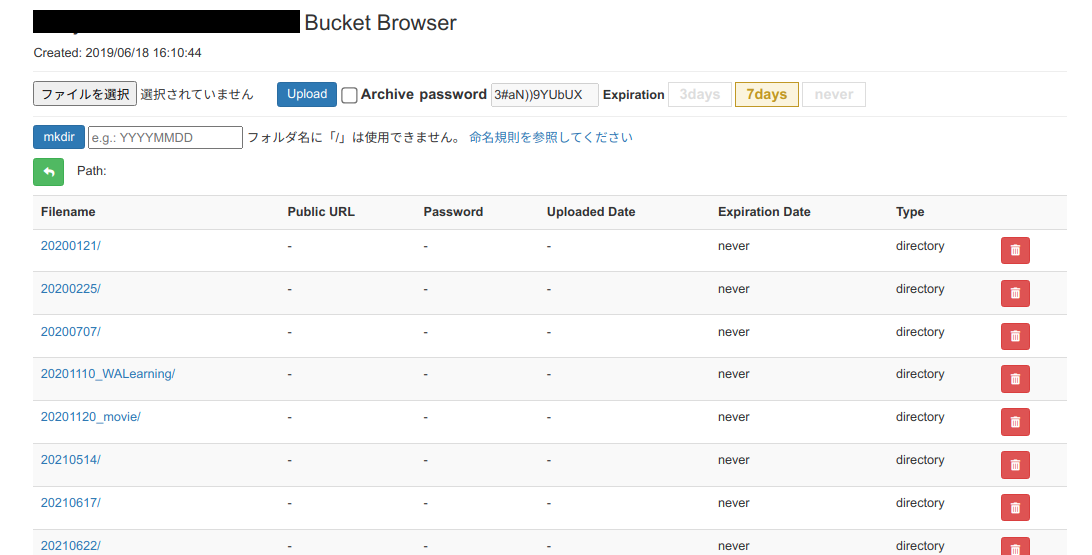
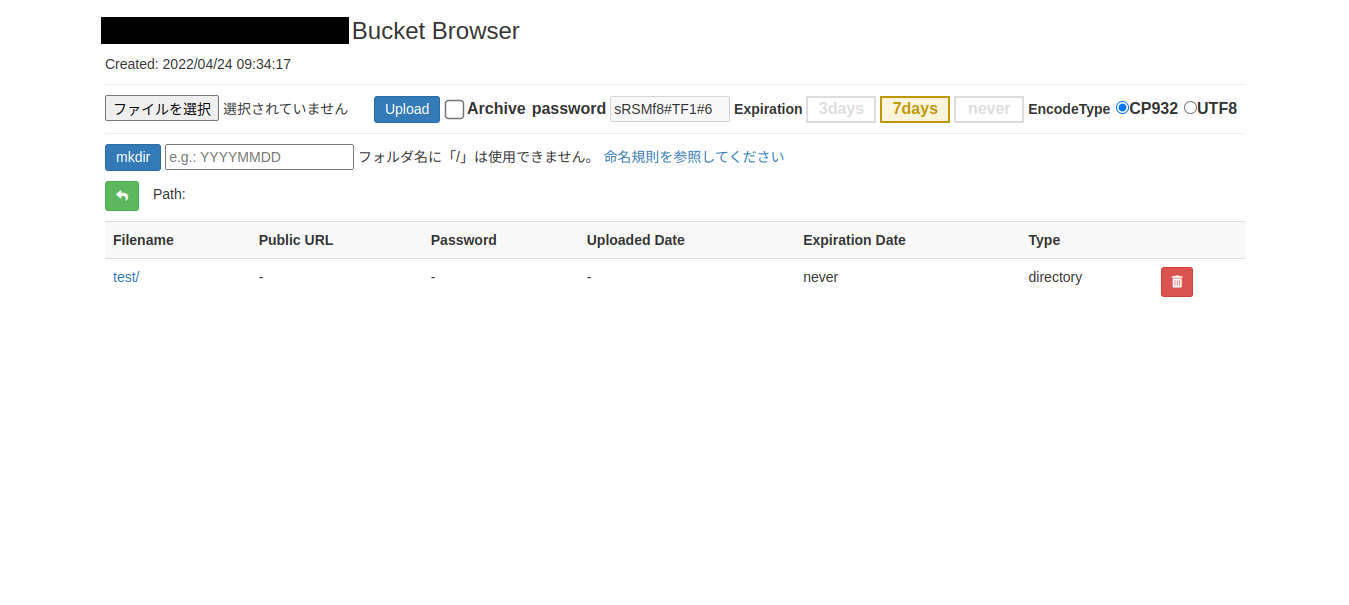
Update: #5 Shift-JIS圧縮対応

diff --git a/templates/files.html b/templates/files.html
@@ -37,6 +37,11 @@
         <input type="radio" id="never" name="expiration" value="never" class="never">
         <label for="never">never</label>
       </div>
+      <div class="encode-type">
+        <b>EncodeType</b>
+        <label><input type="radio" name="encode" value="CP932" checked="checked" />CP932</label>
+        <label><input type="radio" name="encode" value="UTF8" />UTF8</label>
+      </div>
     </form>
     <hr>
 

diff --git a/static/styles.css b/static/styles.css
@@ -93,6 +93,14 @@ input[type="checkbox"] {
     cursor: pointer;
 }
 
+.encode-type {
+  display: inline-block;
+}
+
+.encode-type label{
+  display: inline-block;
+}
+
 /* Bootstrap上書き */
 .alert {
   margin-bottom: 0px;

diff --git a/app.py b/app.py
@@ -45,9 +45,7 @@ def files():
     summaries = my_bucket.objects.filter(Prefix=key)
     summaries = dir_file_filter(summaries, key=key)
 
-    return render_template(
-        "files.html", my_bucket=my_bucket, files=summaries, path=key, gen_passwd=pass_gen(PASSWORD_LENGTH)
-    )
+    return render_template("files.html", my_bucket=my_bucket, files=summaries, path=key, gen_passwd=pass_gen(PASSWORD_LENGTH))
 
 
 @app.route("/upload", methods=["POST"])
@@ -55,6 +53,7 @@ def upload():
     file = request.files["file"]
     export_path = request.form["export-path"]
     expiration = request.form["expiration"]
+    encode_type = request.form["encode"]
 
     # 有効期限
     set_tag = make_tag(ExpireTag=expiration)
@@ -73,16 +72,23 @@ def upload():
             file.save(os.path.join(dirpath_src, file.filename))
 
             with tempfile.TemporaryDirectory(prefix="tmp_dst", dir=".") as dirpath_dst:
+                if encode_type == "CP932":
+                    # CP932変換
+                    command = ["/usr/bin/convmv", "-r", "-f", "utf8", "-t", "cp932", f"{dirpath_src}/{file.filename}", "--notest"]
+                    subprocess.run(command)
+
                 # パスワード付きzipをシェルスクリプトで生成
                 command = [
                     "/usr/bin/zip",
                     "-r",
                     "-P",
-                    f"{password}",
+                    f"\'{password}\'",
                     f"../{dirpath_dst}/pass_{os.path.splitext(file.filename)[0]}.zip",
-                    f"{file.filename}",
+                    "./*",
                 ]
-                subprocess.run(command, cwd=f"{dirpath_src}")
+                command = " ".join(command)
+                print(command)
+                subprocess.run(command, cwd=f"{dirpath_src}", shell=True)
 
                 # S3にアップロード
                 my_bucket.upload_file(

diff --git a/README.md b/README.md
@@ -12,6 +12,7 @@ Simple operation of AWS S3 from a web browser
 - Getting the Public URL
 - Display password when uploading archives from (this tool)
 - Expiration by Lifecycle
+- Select Encoding (UTF-8, Shift_JIS(CP932))
 
 ## Setup
 
